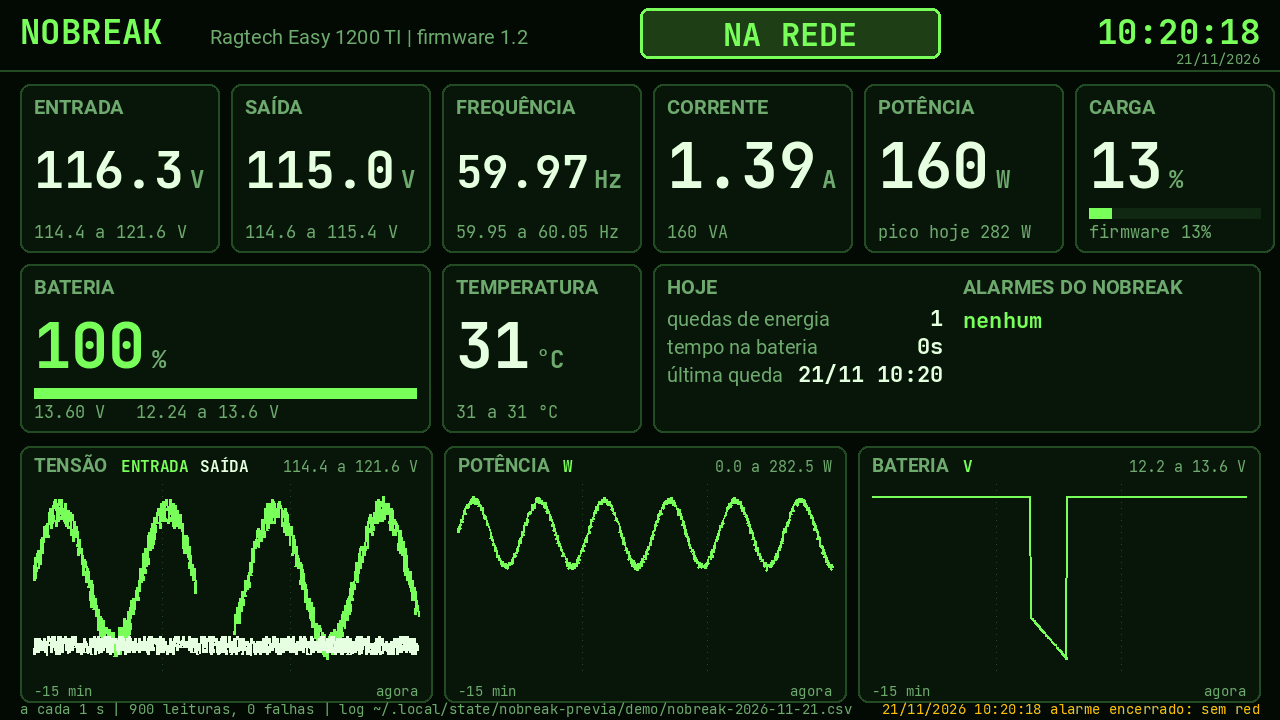
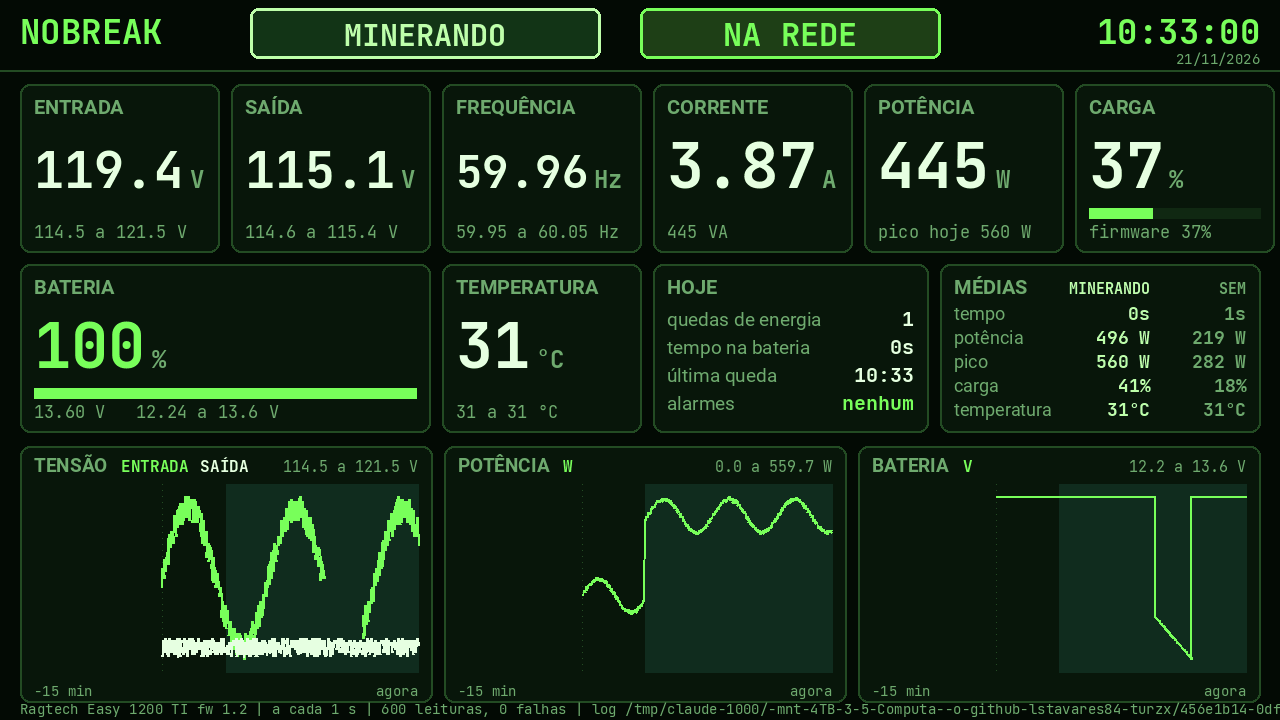
Tela do nobreak: tag MINERANDO e médias por mineração
A tela do nobreak na 5,2" mostra MINERANDO ou SEM MINERAÇÃO, conforme
um processo de minerador conhecido esteja rodando (lista configurável
por --mineradores ou NOBREAK_MINERADORES). O CSV ganha a coluna
minerando; o painel MÉDIAS compara o dia minerando e sem mineração
(tempo, potência média, pico, carga e temperatura); os gráficos marcam
o tempo minerando; início e fim da mineração entram no log de eventos;
ao reiniciar, as médias e as quedas do dia são retomadas do log.

diff --git a/nobreak/nobreak_tela.py b/nobreak/nobreak_tela.py
@@ -1,5 +1,6 @@
 #!/usr/bin/env python3
-# GAMMA NOBREAK | nobreak/nobreak_tela.py | versão 0.1.0 | 21/11/2026 10:17 (-03) | criação original (Claude, para Lucas Tavares)
+# GAMMA NOBREAK | nobreak/nobreak_tela.py | versão 0.2.0 | 21/11/2026 10:31 (-03) | criação original (Claude, para Lucas Tavares)
+# histórico: 0.2.0 21/11/2026 10:31 tag MINERANDO pelo processo do minerador; dados separados por minerando ou não
 # histórico: 0.1.0 21/11/2026 10:17 criação: tela de 5,2" em paisagem só com o nobreak Ragtech 4162, log em CSV
 #
 # Tela exclusiva do nobreak na TURZX / Turing de 5,2" (720x1280, revisão TUR_USB, USB 1cbe:0050), em PAISAGEM
@@ -9,6 +10,8 @@
 #   tela:    biblioteca do turing-smart-screen-python (LcdCommTuringUSB), sem uma segunda instância do programa.
 #   cores:   só os próprios alarmes do nobreak decidem âmbar e vermelho (nenhum limite inventado aqui).
 #   log:     ~/.local/state/nobreak/nobreak-AAAA-MM-DD.csv (uma linha por leitura) e nobreak-eventos.log.
+#   mineração: o computador está minerando quando um processo da lista MINERADORES está rodando (nome do processo
+#            ou do executável, sem diferenciar maiúsculas). A lista muda com --mineradores ou NOBREAK_MINERADORES.
 # Uso:
 #   python3 nobreak_tela.py                      tela + log (o serviço systemd roda assim)
 #   python3 nobreak_tela.py --previa saida.png   desenha um quadro com a leitura real e sai (não usa a tela)
@@ -41,6 +44,11 @@ JANELA = 900                      # pontos guardados para os gráficos (15 min a
 BG, PAINEL, LINHA = (3, 10, 4), (8, 22, 10), (35, 75, 35)
 VERDE, GELO, BRANCO, SUB = (120, 255, 90), (190, 255, 170), (230, 255, 225), (110, 170, 110)
 AMBAR, VERMELHO = (255, 190, 0), (255, 60, 50)
+
+# processos de mineração reconhecidos (nomes usuais dos mineradores, inclusive os que o Kryptex usa por baixo)
+MINERADORES = ["kryptex", "xmrig", "lolminer", "gminer", "t-rex", "nbminer", "teamredminer", "srbminer-multi",
+               "bzminer", "rigel", "onezerominer", "nanominer", "excavator", "ethminer", "wildrig"]
+CINZA = (70, 95, 70)
 
 # alarmes do próprio nobreak (texto do ragtech_read.py) -> nível
 CRITICOS = {"bateria esgotada", "sobrecarga", "saida anormal", "falha inversor", "curto-circuito", "superaquecimento",
@@ -90,13 +98,14 @@ class Demo:
     """Dados de demonstração (quadro de prévia): rede normal com uma queda curta no meio da janela."""
 
     def __init__(self):
-        self.t = 0
+        self.t, self.minerando = 0, False
 
     def ler(self):
         self.t += 1
         ob = 380 < self.t % 900 < 470
+        self.minerando = 150 < self.t % 900 < 640
         vin = 0.0 if ob else 118 + 3 * math.sin(self.t / 40) + random.uniform(-0.6, 0.6)
-        a = 1.9 + 0.5 * math.sin(self.t / 25) + random.uniform(-0.05, 0.05)
+        a = 1.9 + 0.5 * math.sin(self.t / 25) + random.uniform(-0.05, 0.05) + (2.4 if self.minerando else 0)
         bat = 100.0 if not ob else 100 - (self.t % 900 - 380) * 0.2
         d = {"hora": time.strftime("%Y-%m-%d %H:%M:%S"), "modelo_id": 6, "modelo": "Easy 1200 TI", "firmware": 1.2,
              "entrada_V": round(vin, 1), "saida_V": round(115 + random.uniform(-0.4, 0.4), 1), "saida_A": round(a, 2),
@@ -110,9 +119,34 @@ class Demo:
         pass
 
 
+class Mineracao:
+    """Diz se algum minerador da lista está rodando, olhando /proc (nome do processo e do executável)."""
+
+    def __init__(self, nomes):
+        self.nomes = [n.strip().lower() for n in nomes if n.strip()]
+        self.qual = ""
+
+    def ativa(self):
+        for pid in os.listdir("/proc"):
+            if not pid.isdigit():
+                continue
+            try:
+                comm = Path(f"/proc/{pid}/comm").read_text().strip().lower()
+                arg0 = Path(f"/proc/{pid}/cmdline").read_bytes().split(b"\0")[0].decode(errors="ignore")
+            except OSError:
+                continue
+            exe = os.path.basename(arg0).lower()
+            for n in self.nomes:
+                if comm == n[:15] or exe == n or exe.startswith(n + ".") or exe.startswith(n + "-"):
+                    self.qual = os.path.basename(arg0) or comm
+                    return True
+        self.qual = ""
+        return False
+
+
 # ---------------------------------------------------------------- estado, eventos e log
 class Registro:
-    CAMPOS = ["data_hora", "entrada_V", "saida_V", "saida_A", "potencia_W", "carga_%", "carga_fw_%", "freq_Hz",
+    CAMPOS = ["data_hora", "minerando", "entrada_V", "saida_V", "saida_A", "potencia_W", "carga_%", "carga_fw_%", "freq_Hz",
               "bateria_%", "bateria_V", "temp_C", "status", "modelo", "firmware"]
 
     def __init__(self, pasta):
@@ -124,7 +158,61 @@ class Registro:
         self.dia, self.quedas, self.s_bateria = time.strftime("%Y-%m-%d"), 0, 0.0
         self.t_ant, self.leituras, self.falhas = None, 0, 0
         self.min_max = {}
+        self.min_ant = None
+        self.cmp = {True: {}, False: {}}          # somas do dia por categoria: minerando e sem mineração
         self._carregar_eventos()
+        self._retomar_dia()
+
+    COMPARAR = ("potencia_W", "carga_%", "saida_A", "temp_C", "entrada_V")
+
+    def _somar(self, minerando, d, dt):
+        c = self.cmp[minerando]
+        c["s"] = c.get("s", 0.0) + dt
+        c["n"] = c.get("n", 0) + 1
+        for k in self.COMPARAR:
+            if k == "entrada_V" and str(d.get("status", "")).startswith("OB"):
+                continue
+            c[k] = c.get(k, 0.0) + float(d[k])
+            c[k + "#"] = c.get(k + "#", 0) + 1
+        c["pico"] = max(c.get("pico", 0.0), float(d["potencia_W"]))
+
+    def media(self, minerando, k):
+        c = self.cmp[minerando]
+        return c[k] / c[k + "#"] if c.get(k + "#") else None
+
+    def _retomar_dia(self):
+        """Depois de reiniciar, recupera do CSV e do log de eventos de hoje as somas, os mínimos e máximos e as quedas."""
+        p = self.pasta / f"nobreak-{self.dia}.csv"
+        if p.exists():
+            try:
+                with open(p, newline="", encoding="utf-8") as f:
+                    linhas = list(csv.DictReader(f, delimiter=";"))
+                t_ant = None
+                for r in linhas:
+                    if "minerando" not in r:
+                        break
+                    t = time.mktime(time.strptime(r["data_hora"], "%d/%m/%Y %H:%M:%S"))
+                    dt = min(t - t_ant, 10) if t_ant else 1.0
+                    t_ant = t
+                    d = {k: float(r[k]) for k in self.COMPARAR}
+                    d["potencia_W"], d["status"] = float(r["potencia_W"]), r["status"]
+                    self._somar(r["minerando"] == "sim", d, dt)
+                    for k in ("entrada_V", "saida_V", "potencia_W", "freq_Hz", "bateria_V", "temp_C"):
+                        if k == "entrada_V" and r["status"].startswith("OB"):
+                            continue
+                        v = float(r[k]); lo, hi = self.min_max.get(k, (v, v))
+                        self.min_max[k] = (min(lo, v), max(hi, v))
+                    if r["status"].startswith("OB"):
+                        self.s_bateria += dt
+            except (ValueError, KeyError, OSError) as e:
+                log(f"não consegui retomar o CSV de hoje: {e}")
+        ev = self.pasta / "nobreak-eventos.log"
+        if ev.exists():
+            hoje = time.strftime("%d/%m/%Y")
+            for linha in ev.read_text(encoding="utf-8").splitlines():
+                if linha.startswith(hoje) and "FOI PARA A BATERIA" in linha:
+                    self.quedas += 1
+                    self.ultima_queda = time.mktime(time.strptime(linha[:19], "%d/%m/%Y %H:%M:%S"))
 
     def _carregar_eventos(self):
         p = self.pasta / "nobreak-eventos.log"
@@ -145,13 +233,20 @@ class Registro:
             self.evento(f"LEITURA FALHOU: {motivo}")
             self.flags_ant = "FALHA"
 
-    def anotar(self, d):
+    def anotar(self, d, minerando=False, qual=""):
         agora = time.time()
         hoje = time.strftime("%Y-%m-%d")
         if hoje != self.dia:                          # virada do dia: zera os contadores do dia
             self.dia, self.quedas, self.s_bateria, self.min_max = hoje, 0, 0.0, {}
+            self.cmp = {True: {}, False: {}}
         d = dict(d)
         d["potencia_W"] = round(d["saida_V"] * d["saida_A"], 1)
+        d["minerando"] = "sim" if minerando else "não"
+        if self.min_ant is not None and minerando != self.min_ant:
+            self.evento(f"COMEÇOU A MINERAR ({qual}, {d['potencia_W']:.0f} W)" if minerando
+                        else f"PAROU DE MINERAR ({d['potencia_W']:.0f} W)")
+        self.min_ant = minerando
+        self._somar(minerando, d, min(agora - self.t_ant, 10) if self.t_ant else 1.0)
         ob = d["status"].startswith("OB")
         flags = tuple(sorted(x.strip() for x in d["status"].split(";")[1:] if x.strip()))
         estado = ("OB" if ob else "OL",) + flags
@@ -189,6 +284,10 @@ class Registro:
 
     def _csv(self, d):
         p = self.pasta / f"nobreak-{self.dia}.csv"
+        if p.exists():                                # CSV de uma versão anterior (sem a coluna minerando)
+            with open(p, encoding="utf-8") as f:
+                if f.readline().strip().split(";") != self.CAMPOS:
+                    p.rename(p.with_name(p.stem + "-sem-mineracao.csv"))
         novo = not p.exists()
         with open(p, "a", newline="", encoding="utf-8") as f:
             w = csv.writer(f, delimiter=";")
@@ -229,7 +328,7 @@ def _nivel(flags):
     return None
 
 
-def desenhar(reg, F, ultimo, erro, intervalo):
+def desenhar(reg, F, ultimo, erro, intervalo, minerando=False, qual=""):
     im = Image.new("RGB", (W, H), BG)
     dr = ImageDraw.Draw(im)
     txt = lambda xy, s, f, c, a="ls": dr.text(xy, s, font=f, fill=c, anchor=a)
@@ -241,8 +340,10 @@ def desenhar(reg, F, ultimo, erro, intervalo):
 
     # ---- cabeçalho
     txt((20, 44), "NOBREAK", F("jb", 34), VERDE)
-    if d:
-        txt((210, 44), f"Ragtech {d['modelo']} | firmware {d['firmware']}", F("rb", 20, "Regular"), SUB)
+    tx0, tx1 = 250, 600                               # tag da mineração
+    cor_m = GELO if minerando else CINZA
+    dr.rounded_rectangle((tx0, 8, tx1, 58), 8, fill=(18, 52, 22) if minerando else BG, outline=cor_m, width=3)
+    txt(((tx0 + tx1) // 2, 46), "MINERANDO" if minerando else "SEM MINERAÇÃO", F("jb", 30), cor_m, "ms")
     if erro and not d:
         cor_st, rot = VERMELHO, "SEM LEITURA"
     elif ob:
@@ -307,25 +408,45 @@ def desenhar(reg, F, ultimo, erro, intervalo):
     cor_t = VERMELHO if "superaquecimento" in flags else BRANCO
     bloco(442, y2, 199, h2, "TEMPERATURA", (f"{d['temp_C']}" if d else "--"), "°C", cor_t, faixa("temp_C", "°C"))
 
-    x3 = 653
-    dr.rounded_rectangle((x3, y2, 1260, y2 + h2), 10, fill=PAINEL, outline=LINHA, width=2)
+    x3, x4 = 653, 940
+    dr.rounded_rectangle((x3, y2, x4 - 12, y2 + h2), 10, fill=PAINEL, outline=LINHA, width=2)
     txt((x3 + 14, y2 + 30), "HOJE", F("rb", 20), SUB)
     linhas = [("quedas de energia", str(reg.quedas)), ("tempo na bateria", _dur(reg.s_bateria)),
-              ("última queda", time.strftime("%d/%m %H:%M", time.localtime(reg.ultima_queda)) if reg.ultima_queda else "nenhuma")]
+              ("última queda", time.strftime("%H:%M", time.localtime(reg.ultima_queda)) if reg.ultima_queda else "nenhuma")]
     if ob and reg.ob_desde:
         linhas.insert(0, ("NA BATERIA HÁ", _dur(time.time() - reg.ob_desde)))
-    for i, (a, b) in enumerate(linhas[:4]):
+    if flags:                                         # alarmes do nobreak na última linha
+        fl = flags[0].upper() + (f" +{len(flags) - 1}" if len(flags) > 1 else "")
+        linhas = linhas[:3] + [("alarme", fl)]
+    else:
+        linhas = linhas[:3] + [("alarmes", "nenhum")]
+    for i, (a, b) in enumerate(linhas):
         yy = y2 + 62 + i * 28
-        cor = AMBAR if a.startswith("NA BATERIA") else BRANCO
-        txt((x3 + 14, yy), a, F("rb", 20, "Regular"), SUB if cor == BRANCO else cor)
-        txt((x3 + 290, yy), b, F("jb", 22), cor, "rs")
-    xa = x3 + 310
-    txt((xa, y2 + 30), "ALARMES DO NOBREAK", F("rb", 20), SUB)
-    if not flags:
-        txt((xa, y2 + 64), "nenhum", F("jb", 22), VERDE)
-    for i, f in enumerate(flags[:4]):
-        cor = VERMELHO if f in CRITICOS else AMBAR
-        txt((xa, y2 + 64 + i * 28), f"■ {f.upper()}", F("jb", 20), cor)
+        cor = AMBAR if a.startswith("NA BATERIA") else (alerta or AMBAR) if a == "alarme" else \
+            VERDE if b == "nenhum" and a == "alarmes" else BRANCO
+        txt((x3 + 14, yy), a, F("rb", 19, "Regular"), SUB if cor in (BRANCO, VERDE) else cor)
+        fb = F("jb", 20)
+        while dr.textlength(b, font=fb) > x4 - 26 - (x3 + 170) and len(b) > 3:
+            b = b[:-2] + "…"
+        txt((x4 - 26, yy), b, fb, cor, "rs")
+
+    # comparação do dia: minerando x sem mineração
+    dr.rounded_rectangle((x4, y2, 1260, y2 + h2), 10, fill=PAINEL, outline=LINHA, width=2)
+    txt((x4 + 14, y2 + 30), "MÉDIAS", F("rb", 20), SUB)
+    c1, c2 = 1150, 1246
+    txt((c1, y2 + 30), "MINERANDO", F("jb", 15), GELO, "rs")
+    txt((c2, y2 + 30), "SEM", F("jb", 15), SUB, "rs")
+    fmt = lambda x, f: "--" if x is None else f.format(x)
+    tab = [("tempo", _dur(reg.cmp[True].get("s", 0)), _dur(reg.cmp[False].get("s", 0))),
+           ("potência", fmt(reg.media(True, "potencia_W"), "{:.0f} W"), fmt(reg.media(False, "potencia_W"), "{:.0f} W")),
+           ("pico", fmt(reg.cmp[True].get("pico"), "{:.0f} W"), fmt(reg.cmp[False].get("pico"), "{:.0f} W")),
+           ("carga", fmt(reg.media(True, "carga_%"), "{:.0f}%"), fmt(reg.media(False, "carga_%"), "{:.0f}%")),
+           ("temperatura", fmt(reg.media(True, "temp_C"), "{:.0f}°C"), fmt(reg.media(False, "temp_C"), "{:.0f}°C"))]
+    for i, (a, b1, b2) in enumerate(tab):
+        yy = y2 + 56 + i * 24
+        txt((x4 + 14, yy), a, F("rb", 18, "Regular"), SUB)
+        txt((c1, yy), b1, F("jb", 18), GELO if minerando else BRANCO, "rs")
+        txt((c2, yy), b2, F("jb", 18), BRANCO if not minerando else SUB, "rs")
 
     # ---- gráficos dos últimos 15 minutos
     yg0, yg1 = 450, 676
@@ -350,6 +471,17 @@ def desenhar(reg, F, ultimo, erro, intervalo):
             for yy in range(gy0, gy1, 6):
                 dr.point((xx, yy), fill=LINHA)
         Y = lambda val: gy1 - (val - lo) / (hi - lo) * (gy1 - gy0)
+        mins = [p[1].get("minerando") == "sim" for p in pts]   # trechos minerando: faixa de fundo destacada
+        off0 = JANELA - len(mins)
+        i0 = None
+        for i, m in enumerate(mins + [False]):
+            if m and i0 is None:
+                i0 = i
+            elif not m and i0 is not None:
+                xa = gx0 + (gx1 - gx0) * (i0 + off0) / (JANELA - 1)
+                xb = gx0 + (gx1 - gx0) * (i - 1 + off0) / (JANELA - 1)
+                dr.rectangle((xa, gy0, max(xa + 1, xb), gy1), fill=(16, 44, 30))
+                i0 = None
         n = JANELA
         for nome, s, cor in series:
             trecho = []
@@ -376,7 +508,8 @@ def desenhar(reg, F, ultimo, erro, intervalo):
 
     # ---- rodapé
     pasta = str(reg.pasta).replace(str(Path.home()), "~")
-    estado = f"a cada {intervalo:g} s | {reg.leituras} leituras, {reg.falhas} falhas | log {pasta}/nobreak-{reg.dia}.csv"
+    modelo = f"Ragtech {d['modelo']} fw {d['firmware']} | " if d else ""
+    estado = f"{modelo}a cada {intervalo:g} s | {reg.leituras} leituras, {reg.falhas} falhas | log {pasta}/nobreak-{reg.dia}.csv"
     if erro:
         estado = f"ÚLTIMA LEITURA FALHOU: {erro}"
     fr = F("jb", 14, "Regular")
@@ -413,22 +546,27 @@ def main():
     ap.add_argument("--previa", help="grava um quadro em PNG e sai (não usa a tela)")
     ap.add_argument("--demo", action="store_true", help="dados de demonstração")
     ap.add_argument("--sem-tela", action="store_true", help="só lê e grava o log")
+    ap.add_argument("--mineradores", default=os.environ.get("NOBREAK_MINERADORES", ",".join(MINERADORES)),
+                    help="nomes de processo de mineração, separados por vírgula")
     a = ap.parse_args()
 
     ESTADO.mkdir(parents=True, exist_ok=True)
     F = Fontes(a.turing)
     fonte = Demo() if a.demo else Nobreak(a.leitor, a.va)
     reg = Registro(ESTADO / ("demo" if a.demo else ""))
+    mina = Mineracao(a.mineradores.split(","))
+    minerando = lambda: fonte.minerando if a.demo else mina.ativa()
 
     if a.previa:
-        n = 900 if a.demo else 3
+        n = 600 if a.demo else 3
         d, erro = None, None
         for _ in range(n):
             d, erro = fonte.ler()
+            m = minerando()
             if d:
-                d = reg.anotar(d) if not a.demo else _anotar_demo(reg, d)
+                d = reg.anotar(d, m, mina.qual) if not a.demo else _anotar_demo(reg, d, m)
         fonte.fechar()
-        desenhar(reg, F, d, erro, a.intervalo).save(a.previa)
+        desenhar(reg, F, d, erro, a.intervalo, m, mina.qual).save(a.previa)
         log(f"prévia gravada: {a.previa}" + (f" | erro: {erro}" if erro else ""))
         return 0
 
@@ -442,13 +580,14 @@ def main():
         while True:
             t0 = time.time()
             d, erro = fonte.ler()
+            m = minerando()
             if d:
-                ultimo = reg.anotar(d)
+                ultimo = reg.anotar(d, m, mina.qual)
             else:
                 reg.falha(erro)
             if lcd:
                 try:
-                    lcd.DisplayPILImage(desenhar(reg, F, ultimo if d else None, erro, a.intervalo))
+                    lcd.DisplayPILImage(desenhar(reg, F, ultimo if d else None, erro, a.intervalo, m, mina.qual))
                 except Exception as e:
                     log(f"falha ao enviar à tela: {type(e).__name__}: {e}")
                     time.sleep(5)
@@ -464,10 +603,10 @@ def main():
     return 0
 
 
-def _anotar_demo(reg, d):
+def _anotar_demo(reg, d, m):
     """Na demonstração, espalha as leituras pelos últimos 15 min sem gravar o CSV real."""
     reg._csv = lambda d: None
-    return reg.anotar(d)
+    return reg.anotar(d, m, "xmrig")
 
 
 if __name__ == "__main__":

diff --git a/nobreak/README.md b/nobreak/README.md
@@ -1,4 +1,5 @@
-<!-- nobreak/README.md | versão 1.0.0 | 21/11/2026 10:20 (-03) | criação original (Claude, para Lucas Tavares) -->
+<!-- nobreak/README.md | versão 1.1.0 | 21/11/2026 10:33 (-03) | criação original (Claude, para Lucas Tavares) -->
+<!-- histórico: 1.1.0 21/11/2026 10:33 tag MINERANDO e médias separadas por minerando ou não -->
 
 # Tela do nobreak (TURZX de 5,2", paisagem)
 
@@ -6,21 +7,24 @@ A tela de 5,2" mostra só o nobreak Ragtech New Easy Pro NEP 1200 (modelo 4162),
 
 ![Tela do nobreak com dados de demonstração](../docs/img/nobreak-5.2.png)
 
-<sub>Dados de demonstração, com uma queda de energia no meio dos 15 minutos.</sub>
+<sub>Dados de demonstração: minerando, com uma queda de energia no meio; a faixa mais clara nos gráficos marca o tempo minerando.</sub>
 
 ## O que aparece
 
 - Estado em destaque: NA REDE (verde), NA BATERIA (âmbar) ou SEM LEITURA (vermelho).
+- Tag da mineração: MINERANDO ou SEM MINERAÇÃO, ao lado do estado.
+- Médias de hoje separadas em minerando e sem mineração: tempo, potência média, pico, carga e temperatura, para comparar o comportamento.
 - Entrada, saída, frequência, corrente, potência (V x A), carga (com a carga informada pelo firmware), bateria (% e V) e temperatura, cada um com o mínimo e o máximo do dia.
 - O dia: quedas de energia, tempo na bateria, última queda e, durante uma queda, há quanto tempo está na bateria.
 - Os alarmes do próprio nobreak (bateria fraca, sobrecarga, superaquecimento e outros). Só eles decidem âmbar e vermelho; nenhum limite foi inventado aqui.
-- Gráficos dos últimos 15 minutos: tensão de entrada e de saída, potência e tensão da bateria.
+- Gráficos dos últimos 15 minutos: tensão de entrada e de saída, potência e tensão da bateria, com o tempo minerando marcado por uma faixa mais clara.
 
 ## Como funciona
 
 - Leitura: `ragtech_read.py`, do repositório `ragtech_4162` (só leitura, protocolo do driver `ragtech` do NUT). Este programa usa só a função `poll()` e nunca envia comando de escrita ao nobreak. A calibração dos valores é do leitor.
 - Tela: biblioteca do turing-smart-screen-python (`LcdCommTuringUSB`), sem uma segunda instância do programa. A tela de 3,5" continua com o serviço do Turing.
-- Log: `~/.local/state/nobreak/nobreak-AAAA-MM-DD.csv`, uma linha por leitura, separada por ponto e vírgula, com data e hora `dd/mm/aaaa HH:MM:SS`; eventos (quedas, volta da rede, alarmes, falhas de leitura) em `nobreak-eventos.log`.
+- Mineração: o computador conta como minerando quando um processo de mineração conhecido está rodando (Kryptex, XMRig, lolMiner, GMiner, T-Rex, NBMiner, TeamRedMiner, SRBMiner, BzMiner, Rigel, OneZeroMiner, NanoMiner, Excavator, Ethminer, WildRig). Para trocar a lista: `--mineradores nome1,nome2` ou a variável `NOBREAK_MINERADORES`. Começar e parar de minerar entram no log de eventos.
+- Log: `~/.local/state/nobreak/nobreak-AAAA-MM-DD.csv`, uma linha por leitura, com a coluna `minerando` (sim ou não), separada por ponto e vírgula, com data e hora `dd/mm/aaaa HH:MM:SS`; eventos (quedas, volta da rede, alarmes, mineração, falhas de leitura) em `nobreak-eventos.log`.
 
 ## Instalar
 
@@ -36,6 +40,6 @@ Depois, com o usuário comum:
 ./instalar.sh
 ```
 
-Para parar: `./instalar.sh --parar`. Para ver um quadro sem usar a tela: `python3 nobreak_tela.py --previa quadro.png` (ou `--demo`).
+Para parar: `./instalar.sh --parar`. Depois de reiniciar, as médias, os mínimos e máximos e as quedas do dia são retomados do CSV e do log de eventos. Para ver um quadro sem usar a tela: `python3 nobreak_tela.py --previa quadro.png` (ou `--demo`).
 
 Só um programa por vez pode ler a porta serial do nobreak. Com o serviço ligado, use o CSV do log em vez de rodar o `ragtech_read.py` em paralelo.

diff --git a/CHANGELOG.md b/CHANGELOG.md
@@ -8,6 +8,7 @@ Segue [SemVer](https://semver.org/lang/pt-BR/) (MAJOR.MINOR.PATCH). Os estilos (
 ## [Não lançado]
 
 - Tela do nobreak (`nobreak/`): a TURZX de 5,2" em paisagem (1280x720) só com o nobreak Ragtech NEP 1200 (4162), lida a cada 1 s pelo `ragtech_read.py` (só leitura), com gráficos de 15 min, contadores do dia, alarmes do próprio nobreak e log em CSV e de eventos em `~/.local/state/nobreak`. Serviço systemd de usuário próprio, separado do Turing da tela de 3,5".
+- Tela do nobreak: tag MINERANDO ou SEM MINERAÇÃO (processo de minerador rodando, lista configurável), coluna `minerando` no CSV, médias do dia separadas por minerando e sem mineração, faixa nos gráficos marcando o tempo minerando, eventos de início e fim da mineração e retomada do dia depois de reiniciar.
 
 - Novo estilo GAMMA EPSILON (`gamma-epsilon`, pacote `Gamma-Epsilon`, `--versao epsilon`): o GAMMA DELTA como tela principal e mais duas telas que se alternam a cada minuto, a de gráficos de 24 h (temperatura, uso, memória, rede e ping na largura toda) e a de status das rotinas de backup (estado, última execução, duração, resultado e próxima execução). Enquanto um backup roda, a tela mostra o andamento e volta à rotação quando ele termina; alerta vermelho fixa a tela principal. As rotinas são lidas do systemd e do journal (padrão: `sincronizar-discos`, `sincronizar-sessao` e `espelhar-github`, do repositório `lstavares84/debian`); o percentual vem de um arquivo de andamento que a rotina grava ([Backups na tela](docs/backup.md)). Novas seções `backup` e `rotacao` no `config.yaml`; o histórico passa a guardar uso de CPU e GPU e ping.
 - O protótipo de colmeias que se chamava GAMMA EPSILON passa a ser `gamma-epsilon-prototipo` (matriz: `--extra prototipo`).
